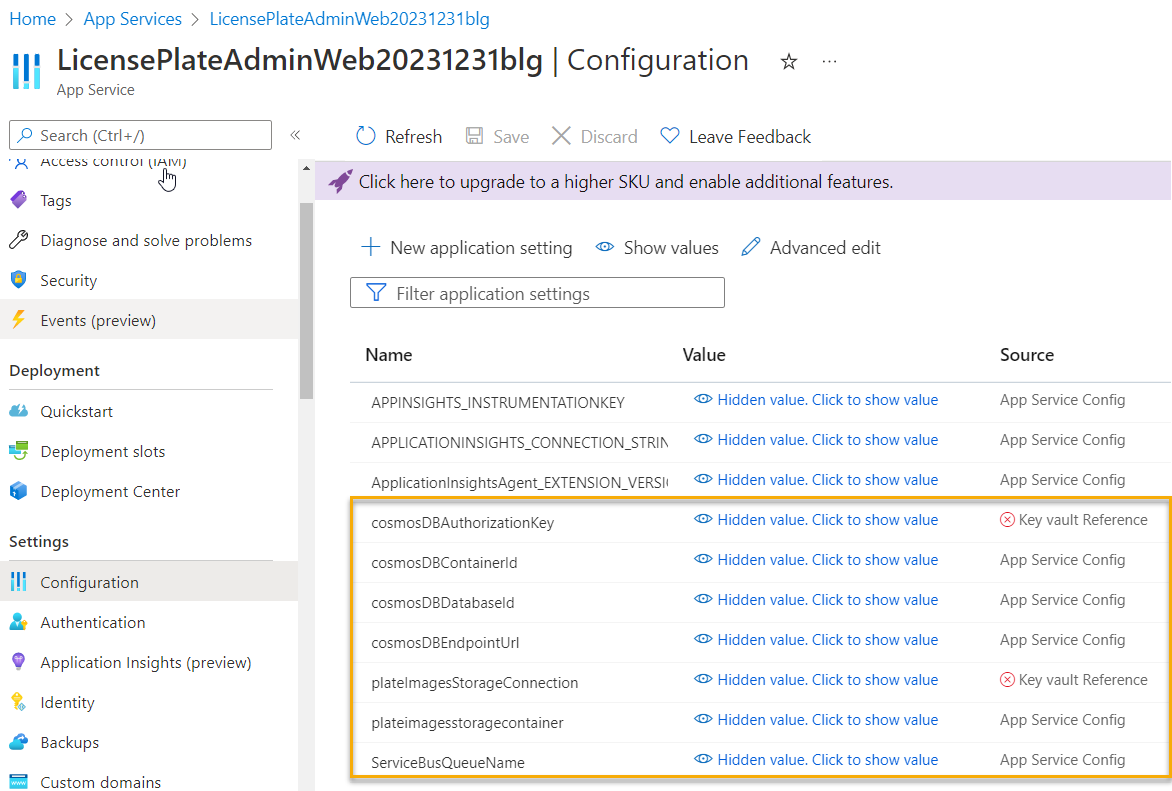
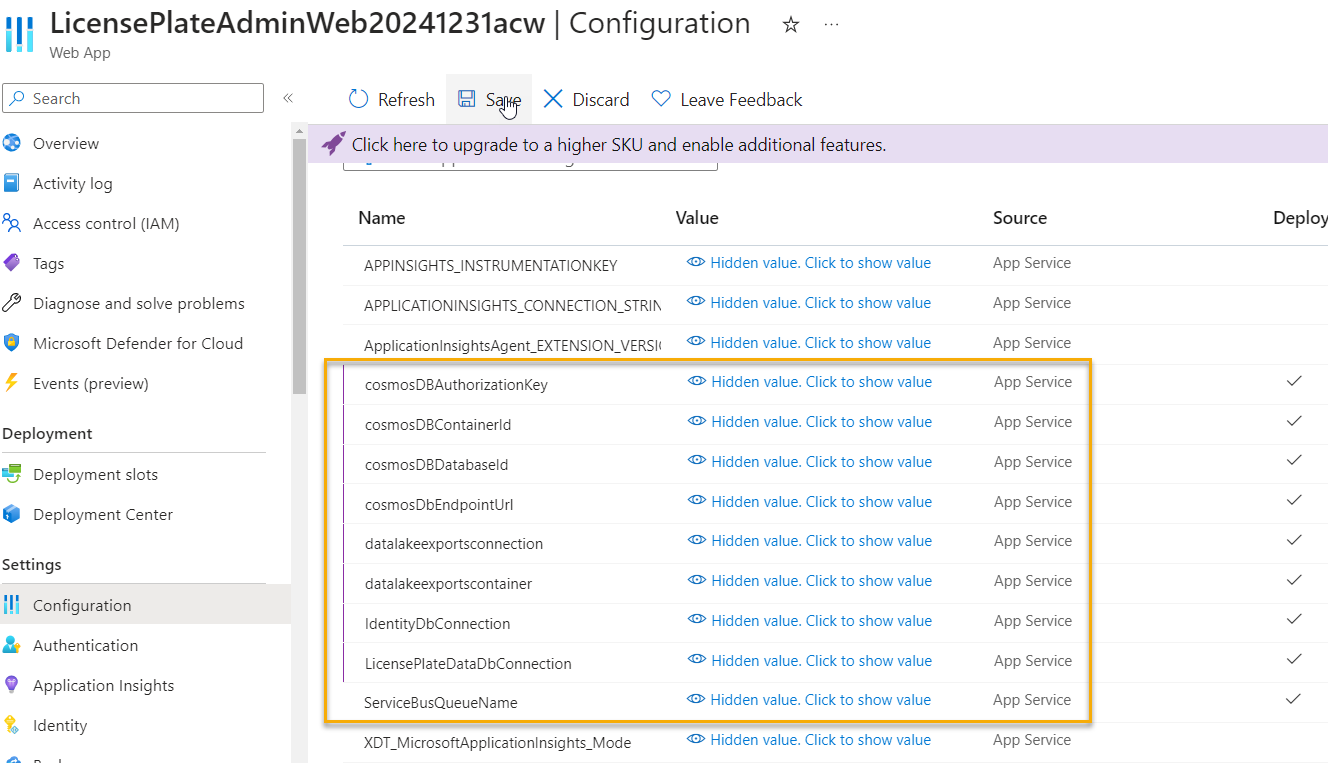
updates

diff --git a/GuidedWalkthrough/09-UserInteractionWebApp.md b/GuidedWalkthrough/09-UserInteractionWebApp.md
@@ -21,6 +21,11 @@ In the last challenge you created and deployed the web application.  In order to
     - cosmosDBContainerId
     - cosmosDbDatabaseId
     - cosmosDbEndpointUrl
+    - datalakeexportsconnection
+    - datalakeexportscontainer
+    - IdentityDbConnection
+    - LicensePlateDataDbConnection
+
 
     Copy the first settings from the function app (the storage container name may not exist on the other app), the only one you shouldn't have is the `ListenOnlySBConnectionString`
 
@@ -34,7 +39,7 @@ In the last challenge you created and deployed the web application.  In order to
 
     In another tab, open your service bus queue.  Navigate to the queue for unprocessed plates, and then select the Shared Access policies and then hit the `+ Add` to add a new policy:
 
-    ![](images/08AdminProcessing/image0006-addlistenersas.png)  
+    ![](images/09AdminProcessing/image0006-addlistenersas.png)  
 
     Name the policy
 
@@ -44,13 +49,13 @@ In the last challenge you created and deployed the web application.  In order to
 
     And select the `Listen` option
 
-    ![](images/08AdminProcessing/image0006-addlistenersas.png)  
+    ![](images/09AdminProcessing/image0006-addlistenersas.png)  
 
     Hit the `Create` button.
 
     Open the created sas, and then copy the `Primary connection string` value
 
-    ![](images/08AdminProcessing/image0007-primaryconnectionsas.png)  
+    ![](images/09AdminProcessing/image0007-primaryconnectionsas.png)  
 
     >**IMPORTANT:** If your connection string contains `EntityPath=...` at the end of it, make sure to remove that part of the connection string!
 
@@ -62,7 +67,7 @@ In the last challenge you created and deployed the web application.  In order to
 
     Add the value and then save it, then validate the value saved and get the URI
 
-    ![](images/08AdminProcessing/image0008-readonlysaskvsecret.png)  
+    ![](images/09AdminProcessing/image0008-readonlysaskvsecret.png)  
 
     Wrap the URI with the @Microsoft.KeyVault(SecretUri=....) replacing `...` with your uri.
 
@@ -86,7 +91,7 @@ In the last challenge you created and deployed the web application.  In order to
 
     Then add the value for the wrapped KeyVault URI
 
-    ![](images/08AdminProcessing/image0009-readonlysbconnectionstring.png)  
+    ![](images/09AdminProcessing/image0009-readonlysbconnectionstring.png)  
 
     Add and then Save, then refresh your settings.  
 
@@ -104,13 +109,13 @@ In the last challenge you created and deployed the web application.  In order to
     - Permissions: `Read`
     - Start time and Expiry time:  Change start time to yesterday, Change the expiration date to 1 year from today.
 
-    ![](images/08AdminProcessing/image0011-storagesas.png)  
+    ![](images/09AdminProcessing/image0011-storagesas.png)  
 
     Leave the remaining settings, then hit the `Generate SAS token and URL`
 
     This is the only time you'll see the key!  Copy it to clipboard, and then create a KeyVault setting for this SAS token  
 
-    ![](images/08AdminProcessing/image0012-sastoken.png)  
+    ![](images/09AdminProcessing/image0012-sastoken.png)  
 
     Return to the KeyVault and add the secret for 
 
@@ -118,7 +123,7 @@ In the last challenge you created and deployed the web application.  In order to
     ImageStorageSASToken
     ```  
 
-    ![](images/08AdminProcessing/image0013-sastokeninvault.png)
+    ![](images/09AdminProcessing/image0013-sastokeninvault.png)
 
     Validate your secret is set correctly, then grab the URI
 
@@ -142,7 +147,7 @@ In the last challenge you created and deployed the web application.  In order to
 
     All the settings should be present now with the Key Vault Reference working as expected:
 
-    ![](images/08AdminProcessing/image0010-settingscompleted.png)  
+    ![](images/09AdminProcessing/image0010-settingscompleted.png)  
 
 ## Task 2 - Wire up ability to show plate images for selected plates
 
@@ -242,7 +247,7 @@ In this task, you'll add images to the pages for review of plates in the admin s
 
     Push your changes, the review one of the processed plates from your testing:
 
-    ![](images/08AdminProcessing/image0014-imagesworkingondetails.png)  
+    ![](images/09AdminProcessing/image0014-imagesworkingondetails.png)  
 
     Ideally, you might also wire up the edit page to let the user change the plate, but hopefully that would never be necessary, so really it might be better to remove all processing for create/edit/delete from this form, and only let the user review data.
 
@@ -384,7 +389,7 @@ To complete this task, you will need another page that shows data from the queue
 
     Adding this code will require the ServiceBus NuGetPackage.
 
-    ![](images/08AdminProcessing/image0015-servicebus.png)  
+    ![](images/09AdminProcessing/image0015-servicebus.png)  
 
     Ensure the code builds.
 
@@ -398,7 +403,7 @@ To complete this task, you will need another page that shows data from the queue
 
     Select `Add New Razor View` for Details, and set the model to the message queue data model:
 
-    ![](images/08AdminProcessing/image0016-messagequeuereviewview.png)  
+    ![](images/09AdminProcessing/image0016-messagequeuereviewview.png)  
 
     Replace the `html` with the following:
 
@@ -468,13 +473,13 @@ To complete this task, you will need another page that shows data from the queue
 
     Temporarily hard code your connection string and queue name into your controller:
 
-    ![](images/08AdminProcessing/image0017-testing.png)
+    ![](images/09AdminProcessing/image0017-testing.png)
 
     Run the project and put a breakpoint on the new method to get info from the queue.
 
     Examine to see the output.  You should see everything but the image locally.
 
-    ![](images/08AdminProcessing/image0018-testingpage.png)  
+    ![](images/09AdminProcessing/image0018-testingpage.png)  
 
     >**Note: If at any point you run out of images in the queue, just use your review function post to add more to the queue.  
 
@@ -482,13 +487,13 @@ To complete this task, you will need another page that shows data from the queue
 
     There are a LOT of moving pieces so far.  It's good to ensure the solution is working at Azure.  Commit and push your changes, then review on your public site:
 
-    ![](images/08AdminProcessing/image0019-workingatazure.png)  
+    ![](images/09AdminProcessing/image0019-workingatazure.png)  
 
     Assuming it is working, move to task 4.
 
     If not, remember that there is a bunch of telemetry in place.  Check the application insights for more error information:
 
-    ![](images/08AdminProcessing/image0020-reviewappinsights.png)  
+    ![](images/09AdminProcessing/image0020-reviewappinsights.png)  
 
     Initially, I had the `Endpoint=...` in the connection string. It logged an exception for not wanting that Endpoint.  I updated it but broke my keyvault and this error shown above was the result.  Once I fixed all that, everything was working as expected.
 
@@ -500,7 +505,7 @@ Here you need to get to the page and then post the updated text to Cosmos, along
 
     You already have similar code.  Go back to the function app and grab the cosmos helper class and the LicensePlateDataDocument class and paste them into your web solution in a folder called `Helpers`:
 
-    ![](images/08AdminProcessing/image0021-cosmoshelper.png)  
+    ![](images/09AdminProcessing/image0021-cosmoshelper.png)  
 
     Bring in the cosmos library.
 
@@ -641,7 +646,7 @@ Here you need to get to the page and then post the updated text to Cosmos, along
 
     If you want to test locally, you could inject your values for cosmos connection.  
 
-    ![](images/08AdminProcessing/image0023-testinglocally.png)  
+    ![](images/09AdminProcessing/image0023-testinglocally.png)  
 
 1. The user needs to know they did it right
 
@@ -700,7 +705,7 @@ Here you need to get to the page and then post the updated text to Cosmos, along
     return RedirectToAction(nameof(Index), new { success = "showsuccess" });
     ```  
 
-    ![](images/08AdminProcessing/image0024-successnotification.png)  
+    ![](images/09AdminProcessing/image0024-successnotification.png)  
 
 1. Push changes and test at Azure
 
@@ -710,11 +715,11 @@ Here you need to get to the page and then post the updated text to Cosmos, along
 
     Review a plate, update the text to match what it should be.  
 
-    ![](images/08AdminProcessing/image0025-platereview1.png)  
+    ![](images/09AdminProcessing/image0025-platereview1.png)  
 
     Save it by hitting `Confirm`.
 
-    ![](images/08AdminProcessing/image0026-platereviewsuccess1.png)  
+    ![](images/09AdminProcessing/image0026-platereviewsuccess1.png)  
 
 
 1. Review the data in Cosmos
@@ -725,21 +730,21 @@ Here you need to get to the page and then post the updated text to Cosmos, along
     select * from c where c.exported = false and c.confirmed = true
     ```  
 
-    ![](images/08AdminProcessing/image0027-cosmoshasdata.png)
+    ![](images/09AdminProcessing/image0027-cosmoshasdata.png)
 
 1. Trigger the timer function
 
     Trigger the timer function in the portal (it doesn't have to be enabled).  This will export your newly confirmed plates.
 
-    ![](images/08AdminProcessing/image0029-exportstriggeredandfileswereexported.png)  
+    ![](images/09AdminProcessing/image0029-exportstriggeredandfileswereexported.png)  
 
     Check storage to see the files:
 
-    ![](images/08AdminProcessing/image0030-newplatesreadyforexport.png)
+    ![](images/09AdminProcessing/image0030-newplatesreadyforexport.png)
 
     If the process is working successfully, you'll see the new plate data show up in the SQL database.
 
-    ![](images/08AdminProcessing/image0031-plateswereprocessedintosql.png)  
+    ![](images/09AdminProcessing/image0031-plateswereprocessedintosql.png)  
 
     The plates were processed successfully!
 

diff --git a/Challenges/09-UserInteraction.md b/Challenges/09-UserInteraction.md
@@ -2,3 +2,22 @@
 
 In this challenge, you will complete the work by creating a .Net MVC Web application that will interact with the Service Bus to allow users to review and approve the license plates (updating the plate as necessary).  Additionally, time permitting, a reporting page can be built to review data in from the legacy system.
 
+## Task 1 - Get the connection information
+
+In the last challenge you created and deployed the web application.  In order to complete this challenge you'll need the cosmos db information, service bus connection information, and the storage account connection information.
+
+1. Set the Environment Variables (leverage KeyVault)
+
+    - ServiceBusQueueName
+    - cosmosDBAuthorizationKey
+    - cosmosDBContainerId
+    - cosmosDbDatabaseId
+    - cosmosDbEndpointUrl
+    - datalakeexportsconnection
+    - datalakeexportscontainer
+    - IdentityDbConnection
+    - LicensePlateDataDbConnection
+    
+1. Create a consumer SAS token at Service Bus
+    
+    Create the consumer SAS token with `listen` permissions, set the connection string into KeyVault, and then leverage it as an app setting in your web application.
